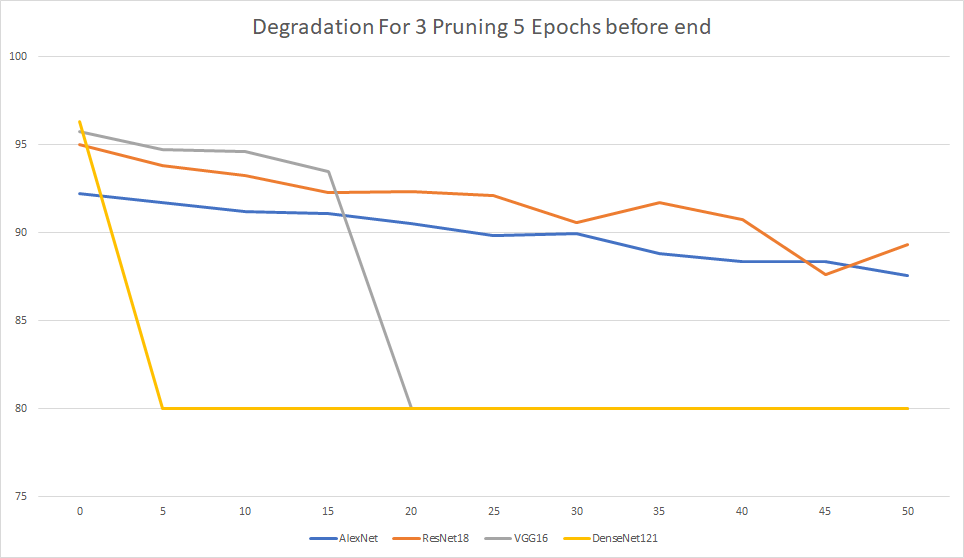
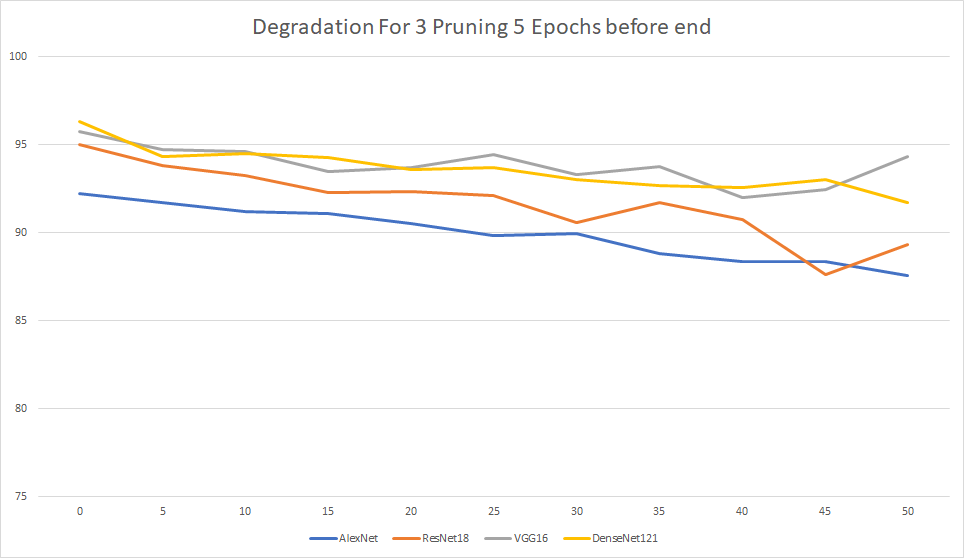
update nvidia poster again

diff --git a/benchmark/degradation_test.py b/benchmark/degradation_test.py
@@ -66,8 +66,10 @@ def train_models(dataset_params):
 def run_compare_pruning(dataset_params, retrain, total, split_ratio=1.0):
     debug_params = DebugHelper(only_test_end=True)
     pruning_param_no_prune = PruningParams(max_percent_per_iteration=0.0, prune_ratio=0.0)
-    exec_param = ExecParams(n_pretrain_epoch=0, n_epoch_retrain=retrain, n_epoch_total=total, batch_size=32,
+    exec_param = ExecParams(n_pretrain_epoch=0, n_epoch_retrain=retrain, n_epoch_total=total, batch_size=64,
                             pruner=CompleteTaylorExpansionFilterPruner)
+    exec_param_large = ExecParams(n_pretrain_epoch=0, n_epoch_retrain=retrain, n_epoch_total=total, batch_size=32,
+                                  pruner=CompleteTaylorExpansionFilterPruner)
 
     all_scores = {}
     exec_name = "AlexNet-degrad"
@@ -159,7 +161,7 @@ def run_compare_pruning(dataset_params, retrain, total, split_ratio=1.0):
         else:
             pruning_param_no_prune.max_percent_per_iteration = None
             pruning_param_no_prune.prune_ratio = None
-        h, s = exec_dense_net(exec_name, pruning_params=pruning_param_no_prune, exec_params=exec_param,
+        h, s = exec_dense_net(exec_name, pruning_params=pruning_param_no_prune, exec_params=exec_param_large,
                               dataset_params=dataset_params, debug_params=debug_params)
         score.append(s)
 
@@ -178,31 +180,31 @@ def run_compare_pruning(dataset_params, retrain, total, split_ratio=1.0):
         else:
             pruning_param_no_prune.max_percent_per_iteration = None
             pruning_param_no_prune.prune_ratio = None
-        h, s = exec_dense_net(exec_name, pruning_params=pruning_param_no_prune, exec_params=exec_param,
+        h, s = exec_dense_net(exec_name, pruning_params=pruning_param_no_prune, exec_params=exec_param_large,
                               dataset_params=dataset_params, debug_params=debug_params)
         score.append(s)
 
     all_scores["DenseNet121"] = score
     display_graphs(score, all_scores, "DenseNet121")
 
-    exec_name = "Squeeze-degrad"
-    score = []
-    exec_param.best_result_save_path = "../saved/Squeeze-base/Pruned.pth".format(exec_name)
-    exec_param.retrain_if_weight_loaded = True
-    for i in range(0, 11):
-        desired_pruning = (5.0 * i) / 100.0
-        if desired_pruning != 0.0:
-            pruning_param_no_prune.max_percent_per_iteration = desired_pruning * split_ratio
-            pruning_param_no_prune.prune_ratio = desired_pruning
-        else:
-            pruning_param_no_prune.max_percent_per_iteration = None
-            pruning_param_no_prune.prune_ratio = None
-        h, s = exec_squeeze_net(exec_name, pruning_params=pruning_param_no_prune, exec_params=exec_param,
-                                dataset_params=dataset_params, debug_params=debug_params)
-        score.append(s)
-
-    all_scores["Squeeze"] = score
-    display_graphs(score, all_scores, "Squeeze")
+    # exec_name = "Squeeze-degrad"
+    # score = []
+    # exec_param.best_result_save_path = "../saved/Squeeze-base/Pruned.pth".format(exec_name)
+    # exec_param.retrain_if_weight_loaded = True
+    # for i in range(0, 11):
+    #     desired_pruning = (5.0 * i) / 100.0
+    #     if desired_pruning != 0.0:
+    #         pruning_param_no_prune.max_percent_per_iteration = desired_pruning * split_ratio
+    #         pruning_param_no_prune.prune_ratio = desired_pruning
+    #     else:
+    #         pruning_param_no_prune.max_percent_per_iteration = None
+    #         pruning_param_no_prune.prune_ratio = None
+    #     h, s = exec_squeeze_net(exec_name, pruning_params=pruning_param_no_prune, exec_params=exec_param,
+    #                             dataset_params=dataset_params, debug_params=debug_params)
+    #     score.append(s)
+    #
+    # all_scores["Squeeze"] = score
+    # display_graphs(score, all_scores, "Squeeze")
 
 
 def display_graphs(current_score, all_scores, name):
@@ -235,8 +237,9 @@ if __name__ == '__main__':
     # train_models(dataset_params)
     # print("Start simple degrad")
     # run_compare_pruning(dataset_params=dataset_params, retrain=0, total=1, split_ratio=1.0)
+    # print("Start simple degrad+retrain")
+    # run_compare_pruning(dataset_params=dataset_params, retrain=1, total=5, split_ratio=1.0)
     print("Start complex degrad")
-    run_compare_pruning(dataset_params=dataset_params, retrain=1, total=5, split_ratio=0.34)
-    print("Start simple degrad+retrain")
-    run_compare_pruning(dataset_params=dataset_params, retrain=1, total=5, split_ratio=1.0)
+    run_compare_pruning(dataset_params=dataset_params, retrain=1, total=5, split_ratio=1.0/3.0)
+
 
